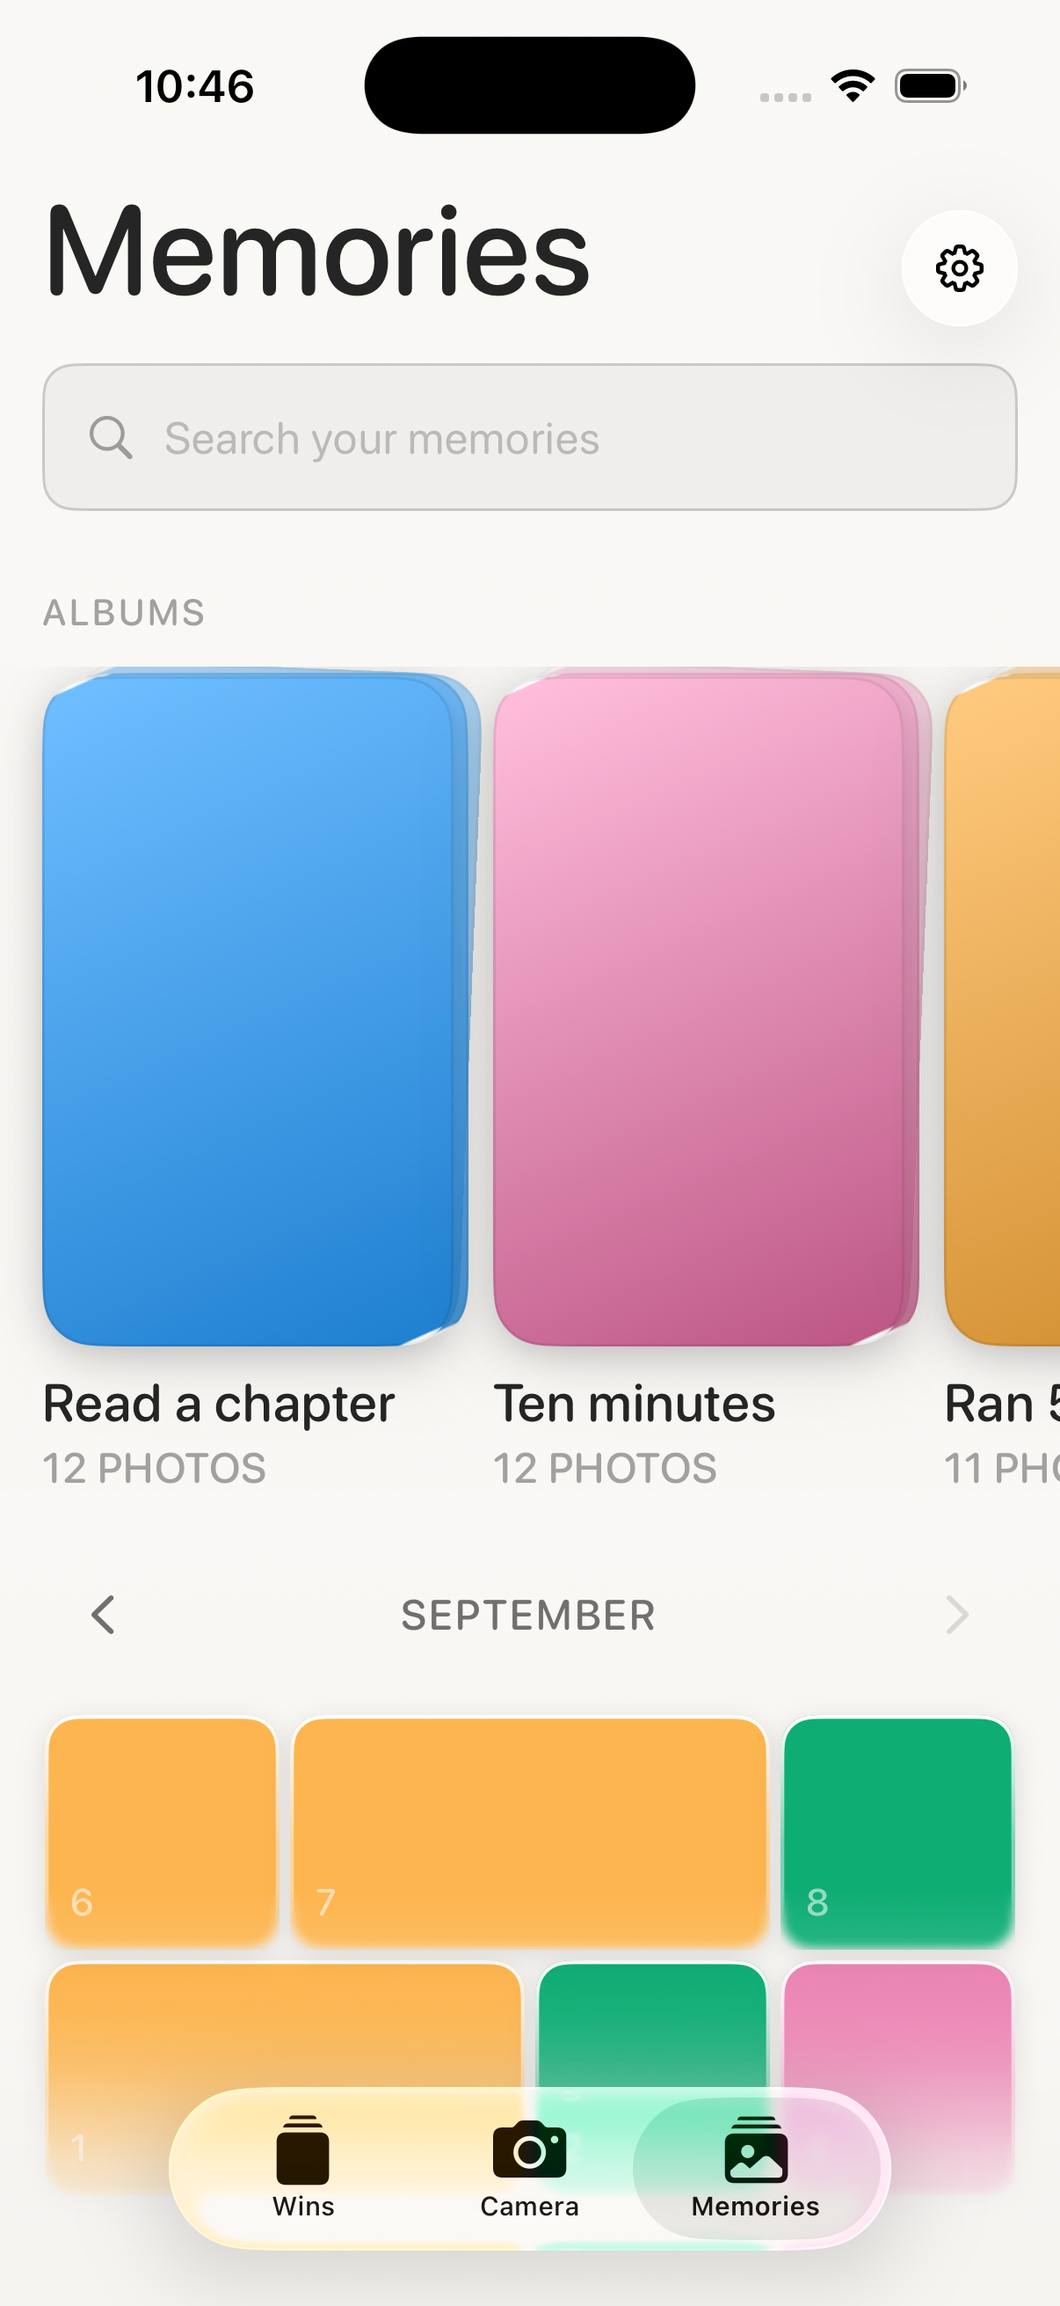
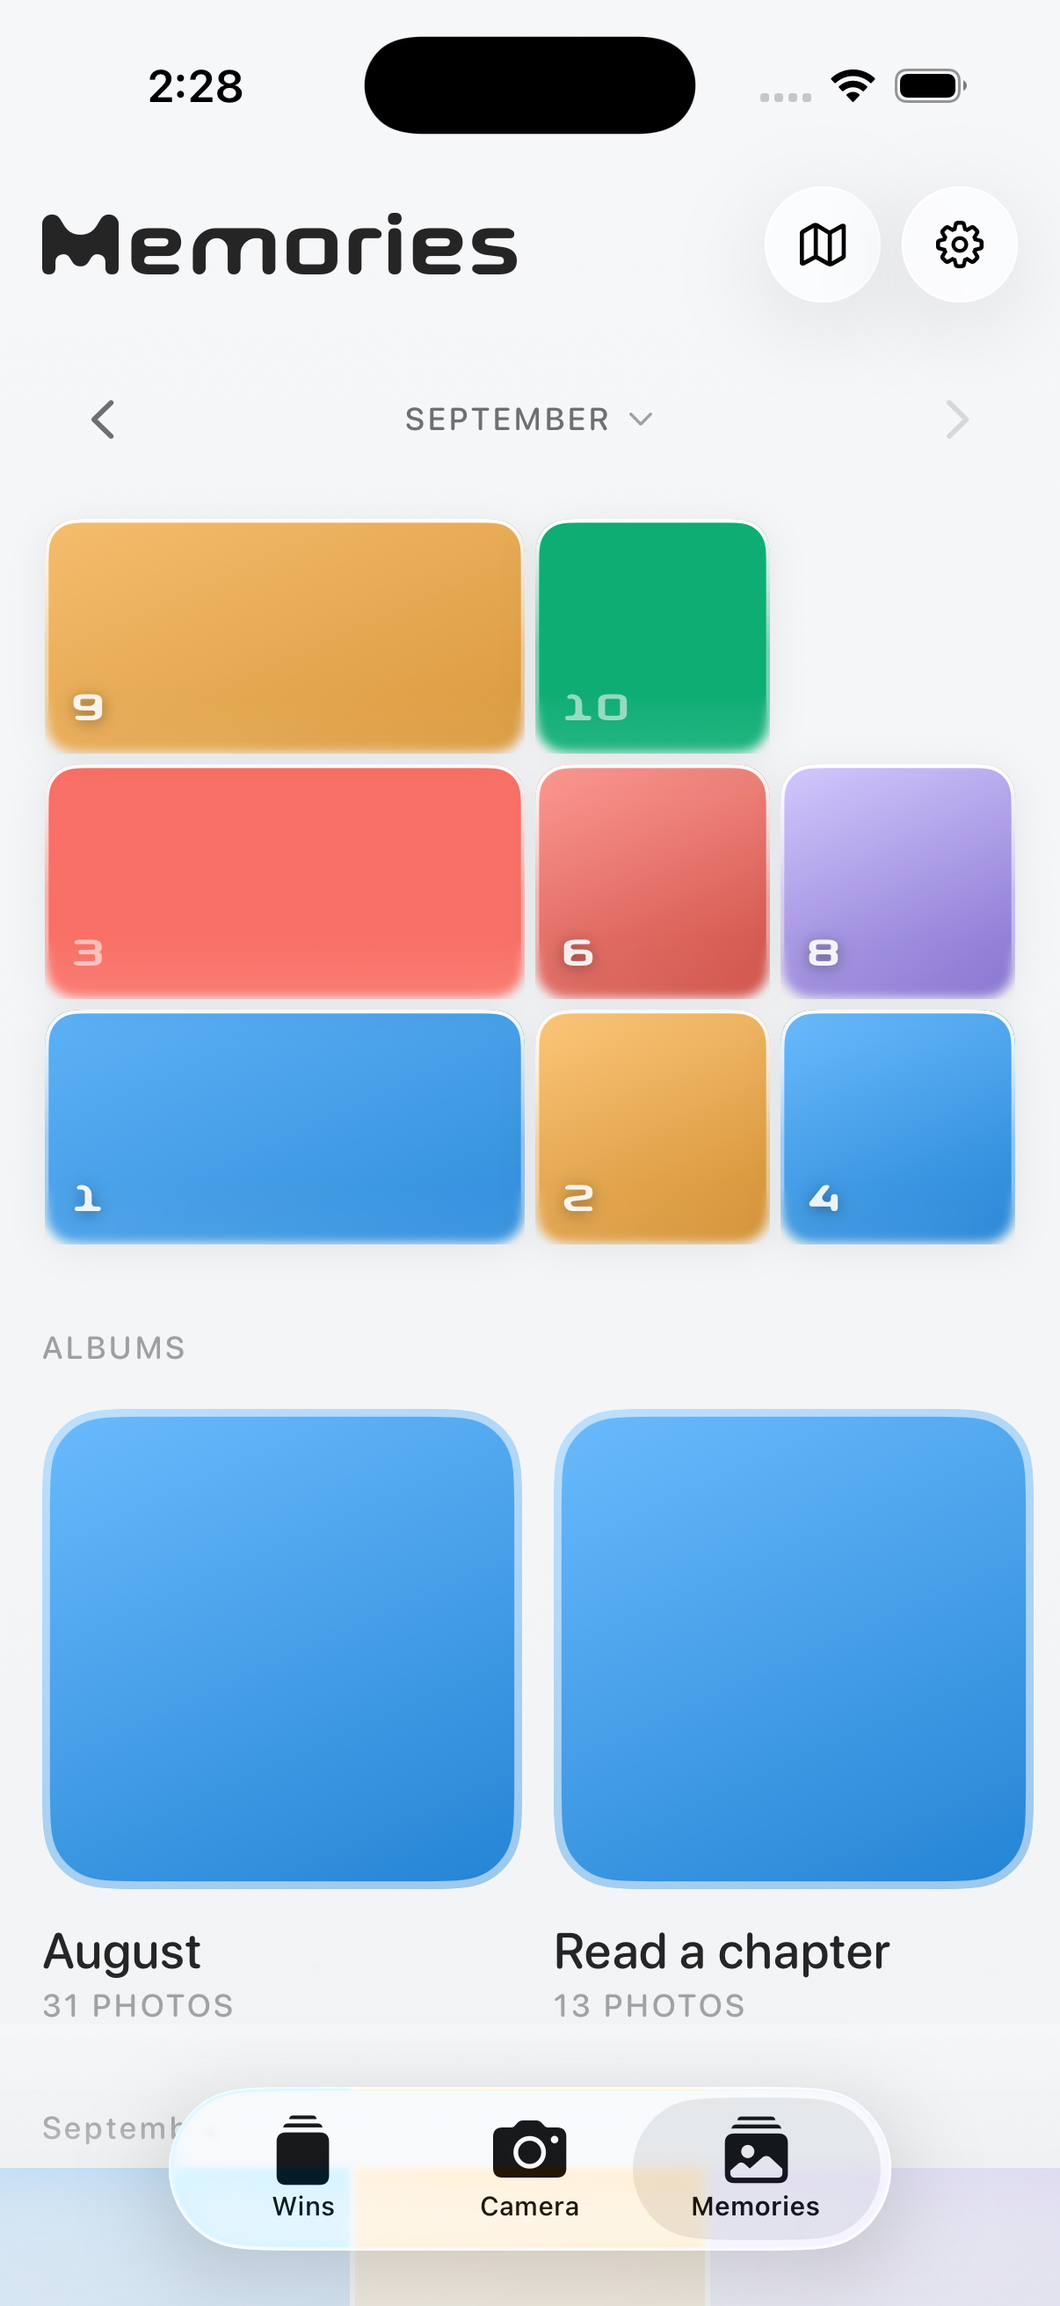
The map: your places, as blocks
Every photographed win that knows where it was, clustered into the app's own
object and sized by how much you did there. Reached from the Memories header,
and it opens each place into the photographs taken there.

**It is a route, not part of the page, and that was forced.** A MapKit `Map`
placed in the Memories `LazyVStack` stopped the whole body re-evaluating: the
page kept rendering its EMPTY state while the view model held forty pins.
Nothing errored, nothing crashed, the app stayed alive. Bisected properly — a
plain `Color` in the same slot rendered, a plain rectangle as the annotation
did not help, and constraining the map inside a fixed overlay box did not
help. A `Map` simply cannot live in a lazy stack inside a scroll view here.
That is the same wall step 7 of the plan was going to hit, found early and for
free.

**Which ground, decided by measuring.** Both were rendered at phone size with
real blocks and scored the way the "Memories is boring" diagnosis was:

    standard, muted, no POIs   mean 232   edges 6.5%
    imagery                    mean 117   edges 10.9%
    standard + scrim           mean 215   edges 5.7%
    imagery + scrim            mean  99   edges 5.9%   <-- shipped
    (the camera, for scale)    mean   9   edges 2.0%
    (Memories as it was)       mean 207   edges 3.9%

**The pale ground fails the thing it was meant to fix.** At mean 232 it is
BRIGHTER than the 207 page it replaces, and it is full of place names and road
[…]

diff --git a/Strata/Views/MemoriesMapView.swift b/Strata/Views/MemoriesMapView.swift
@@ -1,0 +1,196 @@
+import MapKit
+import SwiftUI
+
+/// Where you have been, as blocks.
+///
+/// Every photographed win that knows its place, clustered into the app's own
+/// object and sized by how much you did there — the same rank encoding the
+/// month tower uses, through `PlaceMap`.
+///
+/// **MapKit cannot be recoloured.** `MapStyle` offers elevation, points of
+/// interest, traffic and an emphasis, and nothing else; there is no palette to
+/// set. So the only levers are what to strip and what to put on top, and both
+/// are used: every point of interest is excluded, the emphasis is muted, and
+/// the blocks are the only saturated thing on the screen.
+struct MemoriesMapView: View {
+    let pins: [PlaceMap.Pin]
+    /// Whether the map takes gestures.
+    var isInteractive: Bool = true
+    /// **Imagery, chosen by measuring.**
+    ///
+    /// Both grounds were rendered at phone size with real blocks on them and
+    /// scored the way the "Memories is boring" diagnosis was: mean luminance,
+    /// the 5th-to-95th spread, and edge density as a proxy for clutter.
+    ///
+    ///     standard, muted, no POIs   mean 232   edges 6.5%
+    ///     imagery                    mean 117   edges 10.9%
+    ///     standard + scrim           mean 215   edges 5.7%
+    ///     imagery + scrim            mean  99   edges 5.9%   <-- this
+    ///     (the camera, for scale)    mean   9   edges 2.0%
+    ///     (Memories as it was)       mean 207   edges 3.9%
+    ///
+    /// The standard ground FAILS the thing it was meant to fix: at 232 it is
+    /// brighter than the 207 page it replaces, and it is full of place names
+    /// and road shields that MapKit will not let us remove — `excludingAll`
+    /// drops the pins, not the labels. Imagery commits to a value the way the
+    /// camera does and leaves the blocks as the only saturated thing on
+    /// screen.
+    var style: Style = .satellite
+    var onSelect: (PlaceMap.PlaceKey) -> Void = { _ in }
+
+    /// The two grounds worth considering, since we cannot invent a third.
+    enum Style: Equatable {
+        /// Standard, muted, no points of interest. Nearly-blank pale geometry.
+        case quiet
+        /// Real imagery. Dark and textured, the register the camera works in.
+        case satellite
+    }
+
+    @State private var camera: MapCameraPosition = .automatic
+    @State private var zoom: Int = 12
+    @State private var viewportWidth: CGFloat = 393
+    /// **Held, not computed.**
+    ///
+    /// This was a computed property, and it wedged the screen. The map's
+    /// content depended on `zoom`, `onMapCameraChange` wrote `zoom`, and
+    /// `.automatic` framed the camera from the content — a loop with no
+    /// settling point. SwiftUI stopped re-evaluating the whole Memories body,
+    /// which showed up as the page keeping its EMPTY state forever while the
+    /// view model had forty pins in it. Nothing errored.
+    ///
+    /// Recomputed only when the integer zoom actually changes, which is a few
+    /// times per pan rather than once per frame.
+    @State private var clusters: [PlaceMap.Cluster] = []
+
+    var body: some View {
+        map
+    }
+
+    private var map: some View {
+        Map(position: $camera, interactionModes: isInteractive ? .all : []) {
+            ForEach(clusters) { cluster in
+                Annotation("", coordinate: CLLocationCoordinate2D(
+                    latitude: cluster.latitude, longitude: cluster.longitude
+                ), anchor: .center) {
+                    PlaceBlock(cluster: cluster)
+                        .onTapGesture { onSelect(cluster.key) }
+                }
+                .annotationTitles(.hidden)
+            }
+        }
+        .mapStyle(mapStyle)
+        .mapControls { }
+        // **A scrim we own.**
+        //
+        // MapKit cannot be recoloured, so this is the only lever left after
+        // stripping points of interest and muting the emphasis. Measured, it
+        // is doing real work: the standard ground came out at mean luminance
+        // 232 — BRIGHTER than the Memories page it was meant to fix, which was
+        // 207 — and imagery at 117 against the camera's 9. The scrim pulls the
+        // tiles down towards the app's own register and lets the blocks be the
+        // only saturated thing on the screen.
+        .overlay {
+            Rectangle()
+                .fill(AppColors.warmBlack.opacity(style == .satellite ? 0.34 : 0.10))
+                .allowsHitTesting(false)
+        }
+        // `.onEnd`, not `.continuous`. Re-clustering every camera frame both
+        // costs CPU and looks wrong — blocks twitch between two cells while
+        // you pan, because the cell under a pin changes several times a
+        // second.
+        .onMapCameraChange(frequency: .onEnd) { context in
+            viewportWidth = context.rect.width > 0 ? viewportWidth : viewportWidth
+            let next = PlaceMap.zoomLevel(
+                spanLongitude: context.region.span.longitudeDelta,
+                viewportWidth: Double(viewportWidth)
+            )
+            // Only when the GRID changes. Assigning the same value back is
+            // what turned this into a loop.
+            guard next != zoom else { return }
+            zoom = next
+            withAnimation(GridConstants.crossFade) {
+                clusters = PlaceMap.cluster(pins, zoom: next)
+            }
+        }
+        // Never `camera = .automatic` here: `.automatic` frames itself from
+        // the content, and the content is what this would be changing.
+        .task(id: pins.count) {
+            clusters = PlaceMap.cluster(pins, zoom: zoom)
+        }
+    }
+
+    private var mapStyle: MapStyle {
+        switch style {
+        case .quiet:
+            // Everything MapKit will let us take away.
+            return .standard(elevation: .flat,
+                             emphasis: .muted,
+                             pointsOfInterest: .excludingAll,
+                             showsTraffic: false)
+        case .satellite:
+            return .imagery(elevation: .flat)
+        }
+    }
+}
+
+/// One place, drawn as one of the app's blocks.
+///
+/// The real `BlockSurface`, so a place block and a tower block are the same
+/// object. The photograph sits on the colour rather than replacing it — the
+/// colour is what the block IS while the picture decodes, and it is what shows
+/// through the rim.
+private struct PlaceBlock: View {
+    let cluster: PlaceMap.Cluster
+
+    /// One cell, on the map. Smaller than the tower's, because a map is denser
+    /// than a tower and a 2x2 has to fit on a phone beside its neighbours.
+    private static let cell: CGFloat = 44
+
+    private var size: CGSize {
+        let gutter = Self.cell * GridConstants.spacing / GridConstants.blockReferenceCell
+        return CGSize(
+            width: Self.cell * CGFloat(cluster.size.columnSpan)
+                + gutter * CGFloat(cluster.size.columnSpan - 1),
+            height: Self.cell * CGFloat(cluster.size.rowSpan)
+                + gutter * CGFloat(cluster.size.rowSpan - 1)
+        )
+    }
+
+    var body: some View {
+        BlockSurface(
+            cornerRadius: GridConstants.blockCornerRadius(forCell: Self.cell),
+            scale: Self.cell / GridConstants.blockReferenceCell,
+            // A white wash floors a photograph's luminance at its own alpha.
+            // The tower's photo blocks drop to 0.06 for exactly this reason.
+            washOpacity: 0.06
+        ) {
+            ZStack {
+                cluster.category.style.baseColor
+                if let name = cluster.photoFileNames.first {
+                    // **One width for every block on the map**, whatever size
+                    // it draws at. `CachedImageView` keys its cache on the
+                    // requested width, so asking for 88 at one zoom and 176 at
+                    // the next decodes the same photograph twice and re-decodes
+                    // it on every zoom step.
+                    CachedImageView(fileName: name,
+                                    width: Self.cell * 2,
+                                    height: Self.cell * 2,
+                                    cornerRadius: 0)
+                        .frame(width: size.width, height: size.height)
+                }
+            }
+        }
+        .frame(width: size.width, height: size.height)
+        .overlay(alignment: .bottomLeading) {
+            // How much you did there. Where the month tower puts its day
+            // number, in the same face.
+            Text("\(cluster.winCount)")
+                .font(Typography.numeral(Self.cell * 0.20))
+                .foregroundStyle(.white.opacity(0.9))
+                .shadow(color: .black.opacity(0.45), radius: 3, y: 1)
+                .padding(Self.cell * 0.12)
+                .accessibilityHidden(true)
+        }
+        .accessibilityLabel("\(cluster.winCount) \(cluster.winCount == 1 ? "win" : "wins") here")
+    }
+}

diff --git a/Strata/Views/MemoriesView.swift b/Strata/Views/MemoriesView.swift
@@ -36,6 +36,17 @@ struct MemoriesView: View {
     /// Ties each thumbnail to the viewer that opens out of it.
     @Namespace private var photoTransition
 
+    /// Which ground the map draws on. Two are possible and MapKit allows no
+    /// third, so the choice is made by looking rather than by arguing —
+    /// `-strataMapStyle satellite` renders the other one.
+    private var mapStyle: MemoriesMapView.Style {
+        #if DEBUG
+        return DebugHarness.mapStyle
+        #else
+        return .quiet
+        #endif
+    }
+
     var openSettings: (() -> Void)?
 
     var body: some View {
@@ -97,8 +108,16 @@ struct MemoriesView: View {
             }
             .navigationDestination(for: MemoriesRoute.self) { route in
                 switch route {
+                case .map:
+                    MemoriesMapView(pins: vm.pins, style: mapStyle) { key in
+                        path.append(.place(key))
+                    }
+                    .ignoresSafeArea()
+                    .toolbar(.hidden, for: .navigationBar)
                 case .day(let key):
                     DayAlbumDetailView(route: DayRoute(dateString: key))
+                case .place(let key):
+                    PhotoCollectionView(source: .place(key))
                 case .curated(let key):
                     PhotoCollectionView(source: .interest(key))
                 case .moment(let id):
@@ -123,6 +142,7 @@ struct MemoriesView: View {
                 }
                 if index < curated.count { path.append(.curated(curated[index])) }
             }
+            if DebugHarness.opensMap { path.append(.map) }
             if let index = DebugHarness.openPhotoIndex {
                 let photos = vm.gallery.flatMap(\.photos)
                 if index < photos.count {
@@ -164,6 +184,12 @@ struct MemoriesView: View {
             // whose subject is photographs.
             MemoriesTitle(color: .primary.opacity(0.85))
             Spacer(minLength: 0)
+            if !vm.pins.isEmpty {
+                GlassIconButton(systemName: "map", accessibilityLabel: "Map") {
+                    path.append(.map)
+                }
+                .offset(y: (Typography.screenTitleCap - GlassIconButton.defaultSide) / 2)
+            }
             GlassIconButton(systemName: "gearshape", accessibilityLabel: "Settings") {
                 openSettings?()
             }
@@ -267,6 +293,20 @@ struct ViewedPhoto: Identifiable, Equatable {
 
 /// Where the Memories tab can go.
 enum MemoriesRoute: Hashable {
+    /// The map, full screen. **Not embedded in the page.**
+    ///
+    /// A MapKit `Map` placed inside this screen's `LazyVStack` stopped the
+    /// whole body re-evaluating: the page kept rendering its EMPTY state while
+    /// the view model held forty pins, and nothing errored, nothing crashed
+    /// and no annotation was at fault — a plain `Color` in the same slot
+    /// worked, and a plain rectangle as the annotation did not help. A `Map`
+    /// simply cannot live in a lazy stack inside a scroll view here.
+    case map
+    /// One place, and everything you did there. A `PlaceKey` is three `Int`s,
+    /// so this is a route rather than a payload — `PhotoCollectionView`
+    /// re-derives the photographs from the store, which is the contract that
+    /// file already documents.
+    case place(PlaceMap.PlaceKey)
     case day(String)
     case curated(String)
     case moment(String)

diff --git a/Strata/Services/DebugHarness.swift b/Strata/Services/DebugHarness.swift
@@ -173,6 +173,49 @@ enum DebugHarness {
     /// A flat colour rather than anything photographic: the point of the
     /// fixture is to exercise the fan, the caching and the round trip, and a
     /// solid field makes it obvious which layer of the stack is which.
+    /// Opens the map, from `-strataOpenMap`. It is behind a tap, so without
+    /// this it cannot be photographed at all.
+    static var opensMap: Bool { argument("-strataOpenMap") != nil }
+
+    /// Which map ground to draw, from `-strataMapStyle [quiet|satellite]`.
+    ///
+    /// MapKit cannot be recoloured, so these two are the whole space. Which
+    /// one is right is a taste question, and this exists so it can be settled
+    /// by rendering both at phone size rather than by argument.
+    static var mapStyle: MemoriesMapView.Style {
+        argument("-strataMapStyle") == "quiet" ? .quiet : .satellite
+    }
+
+    /// Whether seeded photographs also get coordinates, from
+    /// `-strataSeedPlaces`.
+    ///
+    /// The map is empty on a real device for weeks — no photograph taken
+    /// before location capture shipped has a place, and none ever will — so
+    /// without this it cannot be looked at full, and the person judging it
+    /// would be judging an empty rectangle.
+    static var seedsPlaces: Bool { argument("-strataSeedPlaces") != nil }
+
+    /// Puts a seeded win somewhere real.
+    ///
+    /// **60% into three tight clusters, 40% spread**, which is what exercises
+    /// the thing that can actually be wrong: merging at one zoom and splitting
+    /// at the next. An even scatter never merges and would make a broken
+    /// clusterer look fine.
+    private static func place(_ log: HabitLog, index n: Int) {
+        // Three places a few hundred metres across, and a wider spread around
+        // them. London, because the numbers are memorable when reading a log.
+        let hubs = [(51.5074, -0.1278), (51.5155, -0.1410), (51.4975, -0.1357)]
+        if n % 5 < 3 {
+            let hub = hubs[n % hubs.count]
+            log.latitude = hub.0 + Double((n % 7) - 3) * 0.0004
+            log.longitude = hub.1 + Double((n % 5) - 2) * 0.0006
+        } else {
+            log.latitude = 51.50 + Double((n % 23) - 11) * 0.012
+            log.longitude = -0.13 + Double((n % 19) - 9) * 0.020
+        }
+        log.locationAccuracy = 25
+    }
+
     /// Says whether the store opened, from `-strataReportStore`.
     ///
     /// `SharedModelContainer` falls back to an in-memory store when the
@@ -465,6 +508,7 @@ enum DebugHarness {
                             for: win.logID,
                             category: categories[n % categories.count]
                         )
+                        if seedsPlaces { place(log, index: n) }
                     }
                 }
             }

diff --git a/Strata/Views/PhotoCollectionView.swift b/Strata/Views/PhotoCollectionView.swift
@@ -17,6 +17,8 @@ struct PhotoCollectionView: View {
         case interest(String)
         /// An `AlbumMoment` id.
         case moment(String)
+        /// One cell of the place grid — see `PlaceMap.PlaceKey`.
+        case place(PlaceMap.PlaceKey)
     }
 
     let source: Source
@@ -62,6 +64,16 @@ struct PhotoCollectionView: View {
         case .interest(let key):
             matching = records.filter { $0.hasPhoto && Album.titleKey($0.title) == key }
             title = matching.first?.title ?? key
+        case .place(let key):
+            // Widened to the cell PLUS a half-cell margin. A cell is a
+            // geographic identity, not a place identity, so two photographs
+            // twenty metres apart can straddle a boundary — and "my two photos
+            // of the same cafe are in different piles" is a bad bug. The map
+            // draws crisp cells; opening one is generous.
+            let names = Set(PlaceMap.members(of: key, in: PlaceMap.pins(from: records))
+                .map(\.photoFileName))
+            matching = records.filter { $0.photoFileName.map(names.contains) ?? false }
+            title = "\(matching.count) here"
         case .moment(let id):
             guard let moment = AlbumMoment(id: id) else { sections = []; return }
             matching = records.filter {

diff --git a/Strata/ViewModels/MemoriesViewModel.swift b/Strata/ViewModels/MemoriesViewModel.swift
@@ -31,6 +31,9 @@ final class MemoriesViewModel {
 
     /// Every photograph in the window, newest first, grouped by month.
     private(set) var gallery: [GallerySection] = []
+    /// Every photographed win that knows where it was. Clustering happens in
+    /// the view, because it depends on the camera's zoom.
+    private(set) var pins: [PlaceMap.Pin] = []
 
     /// How far back the shelf and the gallery look.
     ///
@@ -141,6 +144,9 @@ final class MemoriesViewModel {
         carousel = Album.carousel(from: records, calendar: calendar, now: now)
         gallery = Album.gallerySections(Album.gallery(from: records),
                                         calendar: calendar, now: now)
+        // Free: the same fetch, the same records. A second query for the map
+        // would double a cost already measured at 53ms on the main actor.
+        pins = PlaceMap.pins(from: records)
     }
 
     // MARK: - The month
